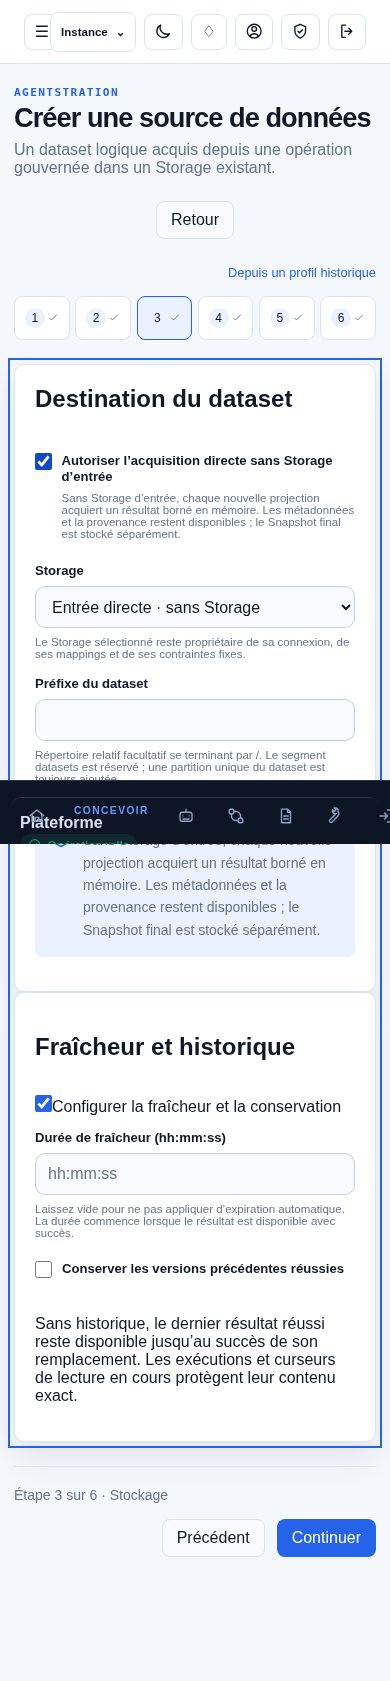
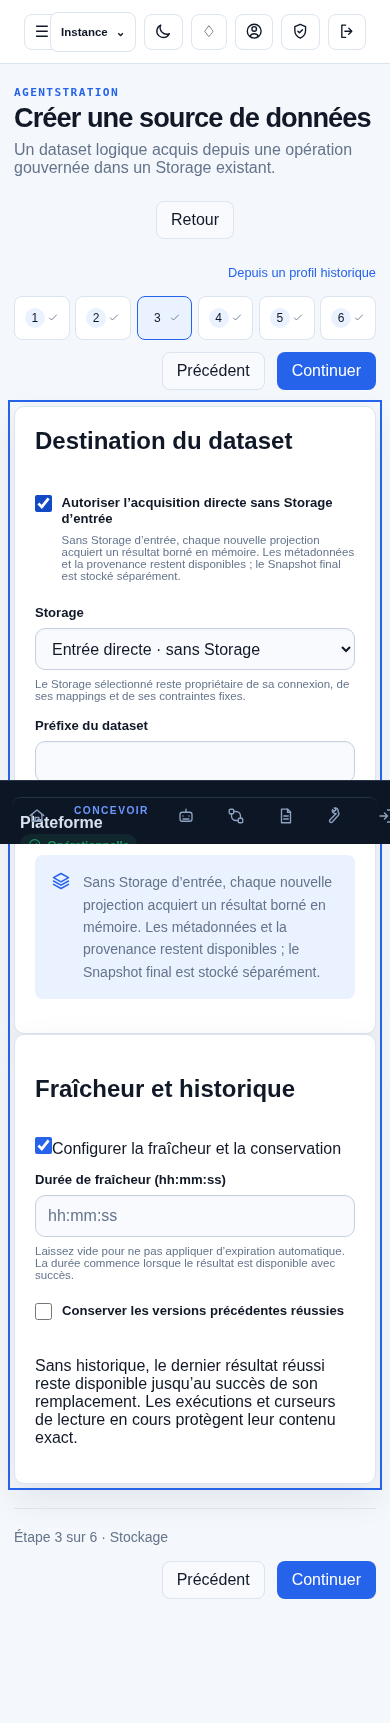
docs(ux): capture wizard navigation at both positions

diff --git a/docs/ux/evidence/creation-wizard/README.md b/docs/ux/evidence/creation-wizard/README.md
@@ -1,6 +1,6 @@
 # Data Source creation Wizard — real application evidence
 
-These are unedited screenshots of the running Console, not generated mockups. The application was built from implementation commit `0a4f46e030445167c187fd3011781d51971b920e`, based on main `efbf247a`. Capture-only files and this evidence were untracked during that build. Product assemblies were not rebuilt during the browser campaign.
+These are unedited screenshots of the running Console, not generated mockups. The application was built from implementation commit `0039eb6e884e83a90e28ee969b6d8e684cf8f883`, based on main `efbf247a`. Capture-only files and this evidence were untracked during that build. Product assemblies were not rebuilt during the browser campaign.
 
 ## Capture matrix
 
@@ -24,6 +24,7 @@ The capture wrapper reuses the existing `SourcePoliciesPage.exerciseLifecycle` j
 
 - All six creation steps and the incomplete review render in both matrix cells; the product theme is asserted after language preference persistence.
 - Step numbers and titles stay on one line, with a fixed trailing status slot. Browser assertions check the vertical centers of the number, title and status through mixed completion states.
+- Top Continue/Previous and invalid top creation are exercised; the final valid creation uses the footer command. Both positions use the same serialized handlers and validation.
 - Only one content pane is active. Focus moves to its region after navigation. Horizontal overflow is checked at every forward transition.
 - Header navigation and Continue work with incomplete fields. Missing identity/operation/Storage are marked separately in the banner; optional empty sections remain complete.
 - Attempting creation with missing identity, missing Storage or incompatible direct-input freshness/history returns to the first incomplete section, exposes the localized error and leaves the resource absent from the API.
